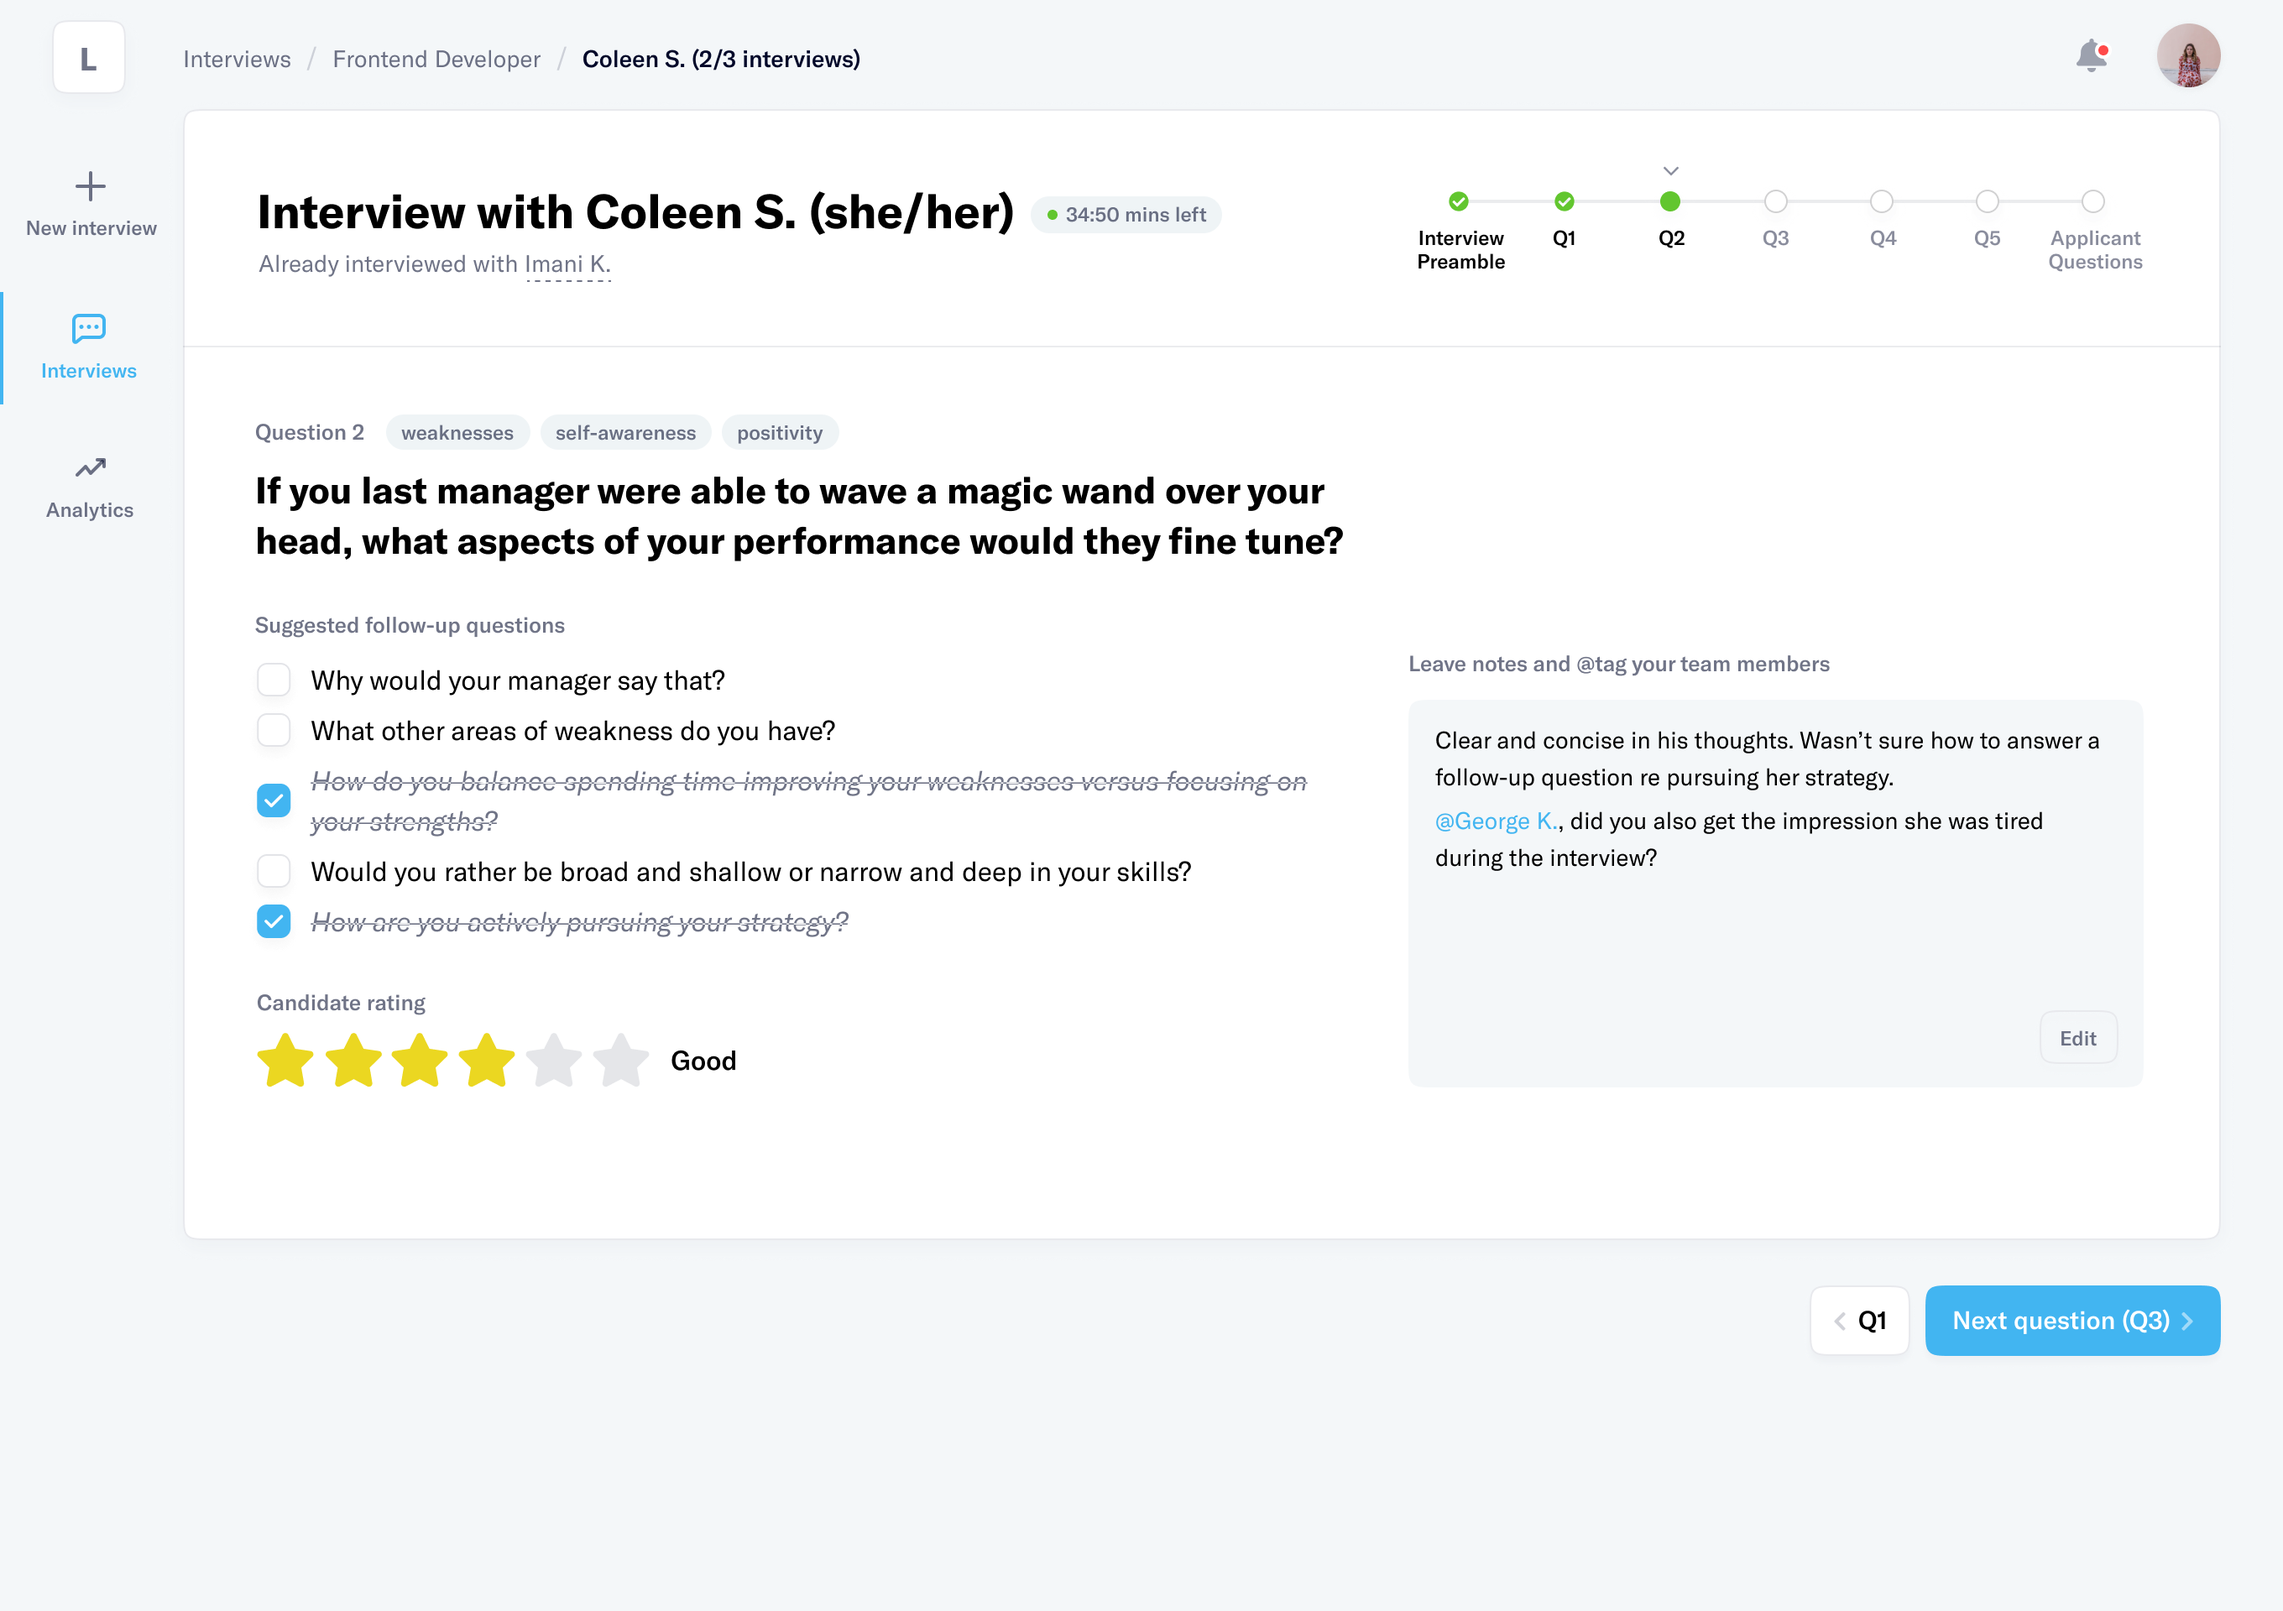
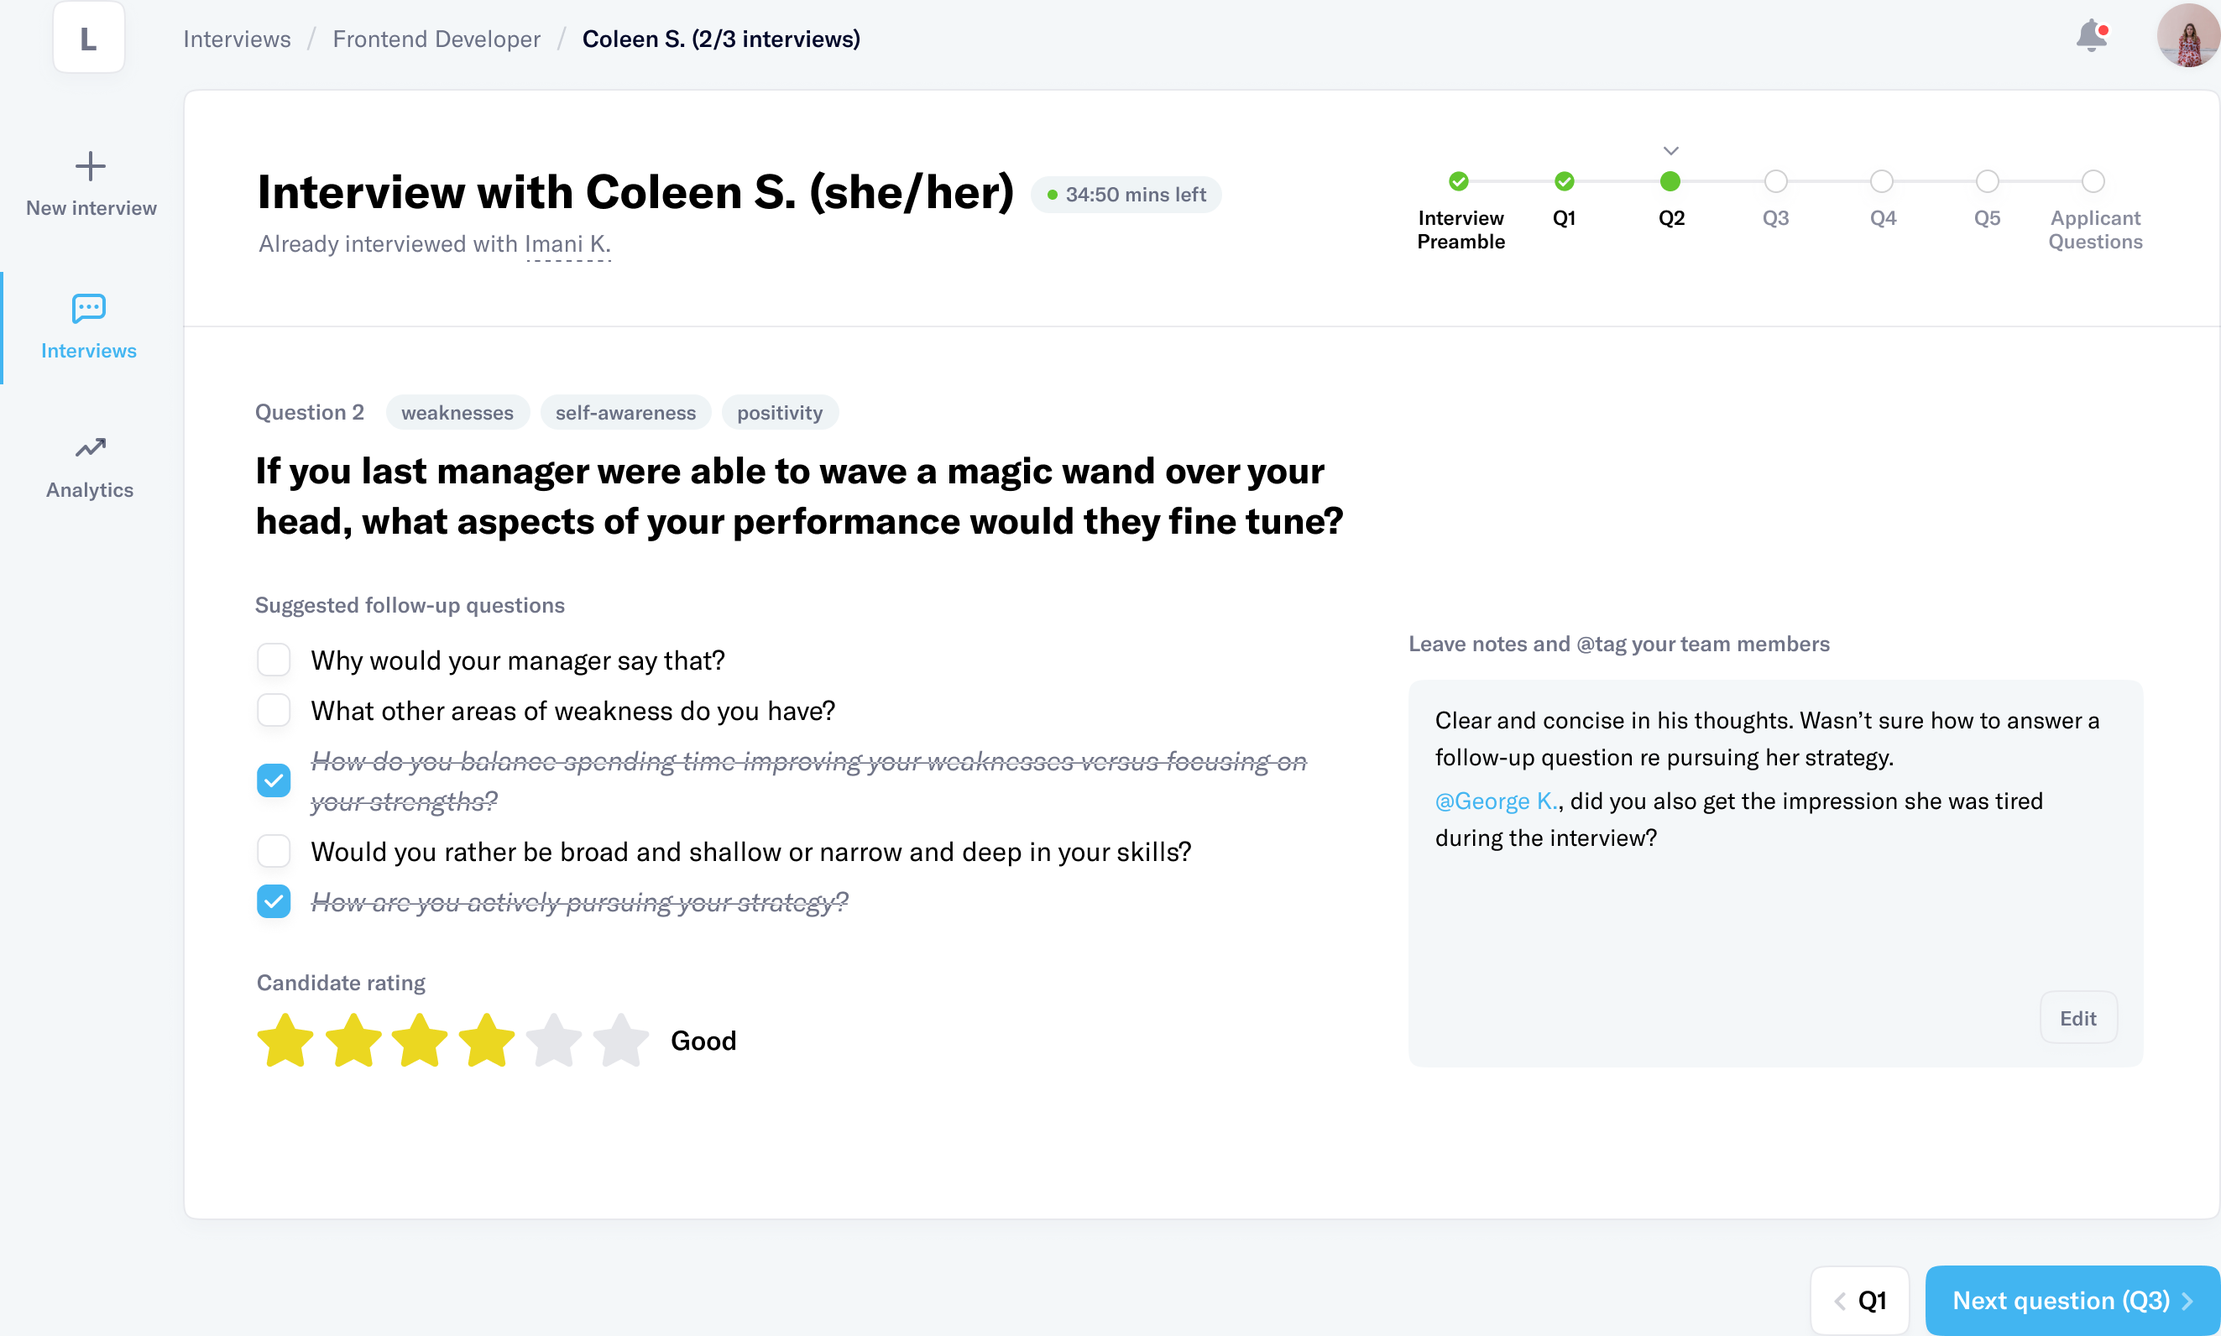
Fix dead space in wireframe/color-exploration before/after
The frames themselves (not the export method) had real empty canvas
below the UI content — up to ~300px on the blue exploration frame.
Trim both images to their actual content bounds and resize the
viewport to match, so both toggle states fill the frame.

diff --git a/src/data/projects.ts b/src/data/projects.ts
@@ -869,10 +869,10 @@ export const projects: Project[] = [
         afterAlt: "Blue color exploration of the same interview question screen",
         beforeLabel: "Wireframe",
         afterLabel: "Color exploration",
-        // Desktop screens (1360×960) — wide enough to read, tall enough that
-        // one viewport fits with no scroll.
+        // Cropped to actual content bounds (both frames had dead space below
+        // the UI baked in). Sized to the taller of the two at this width.
         maxWidth: 896,
-        viewportHeight: 634,
+        viewportHeight: 610,
         caption: "Structure got worked out in grayscale before color entered the conversation.",
       },
       {
